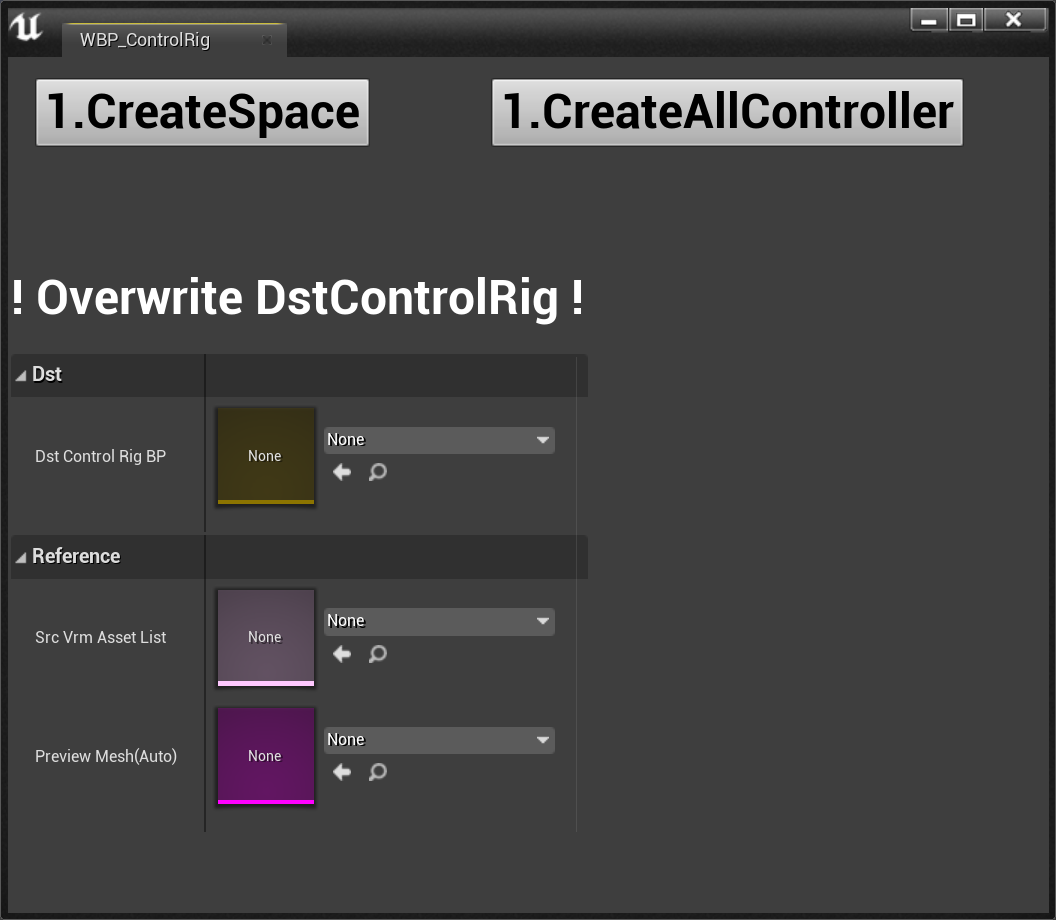
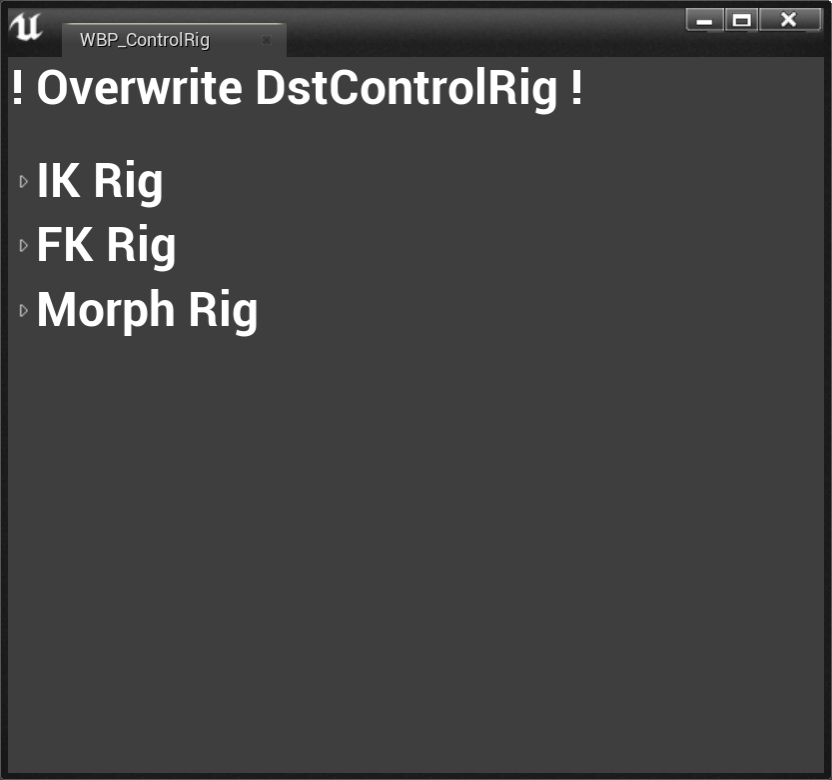
MorphRigを追加

diff --git a/VRM4U/07_controlrig_morph.md b/VRM4U/07_controlrig_morph.md
@@ -1,0 +1,59 @@
+---
+title: "表情を制御する(ControlRig)"
+---
+
+||
+|-|
+|[![](./assets/images/small/07a_top.png)](../assets/images/07a_top.png)|
+|モデル：[【オリジナル3Dモデル】ドラゴニュート・シェンナ](https://booth.pm/ja/items/2661189)|
+
+----
+## 概要
+
+シーケンサーを利用し、MorphTargetのアニメーションを作成します。
+
+IKRigと併用する場合、シーケンサーへの登録順をMorphRig > IKRigにする必要があります。サンプルマップ VRM4U_ControlRig を参考にしてください。
+{: .notice--info}
+
+ここで紹介するMorph用の機能は どんなSkeletalMeshにも利用できます。FBXインポートしたモデルなどでも動作します。
+
+## 下準備
+
+[前述の解説より](../06_controlrig/)、`Morphテンプレート` を複製ください。
+
+続いて `WBP_MorphTarget`を右クリックから実行し、MoprhTarget制御UIを起動します。
+
+||
+|-|
+|[![](./assets/images/small/07a_ui1.png)](../assets/images/07a_ui1.png)|
+
+|Morph制御UIが起動します|
+|-|
+|[![](./assets/images/small/07a_ui2.png)](../assets/images/07a_ui2.png)|
+
+## 操作手順
+
+ 1. 複製したMorphRigをレベルに配置し、シーケンサーの編集モードに入る
+ 1. 制御UIより、操作対象のモデルをTargetActorに設定する
+ 1. MorphTargetを制御しキーを打つ。
+
+|TargetActorの設定|
+|-|
+|[![](./assets/images/small/07a_ui3.png)](../assets/images/07a_ui3.png)|
+
+|シーケンサーより対象のTrackを選択し、キーを打つ。|
+|-|
+|[![](./assets/images/small/07a_ui4.png)](../assets/images/07a_ui4.png)|
+
+## 細かい機能紹介
+
+ - ショートカットキー
+   - k  キー追加
+   - i  パラメータ初期化
+ - Morph名フィルタ
+   - 上部のテキスト入力欄でMorph名をサーチできます
+ - 不要キーの省略
+   - 差分がtolerance以下の場合、キー追加をスキップします
+ - 長いMorph名の省略
+   - Morph名の先頭を省略します。TargetActorのRemoveStringに一致したものが対象です
+
